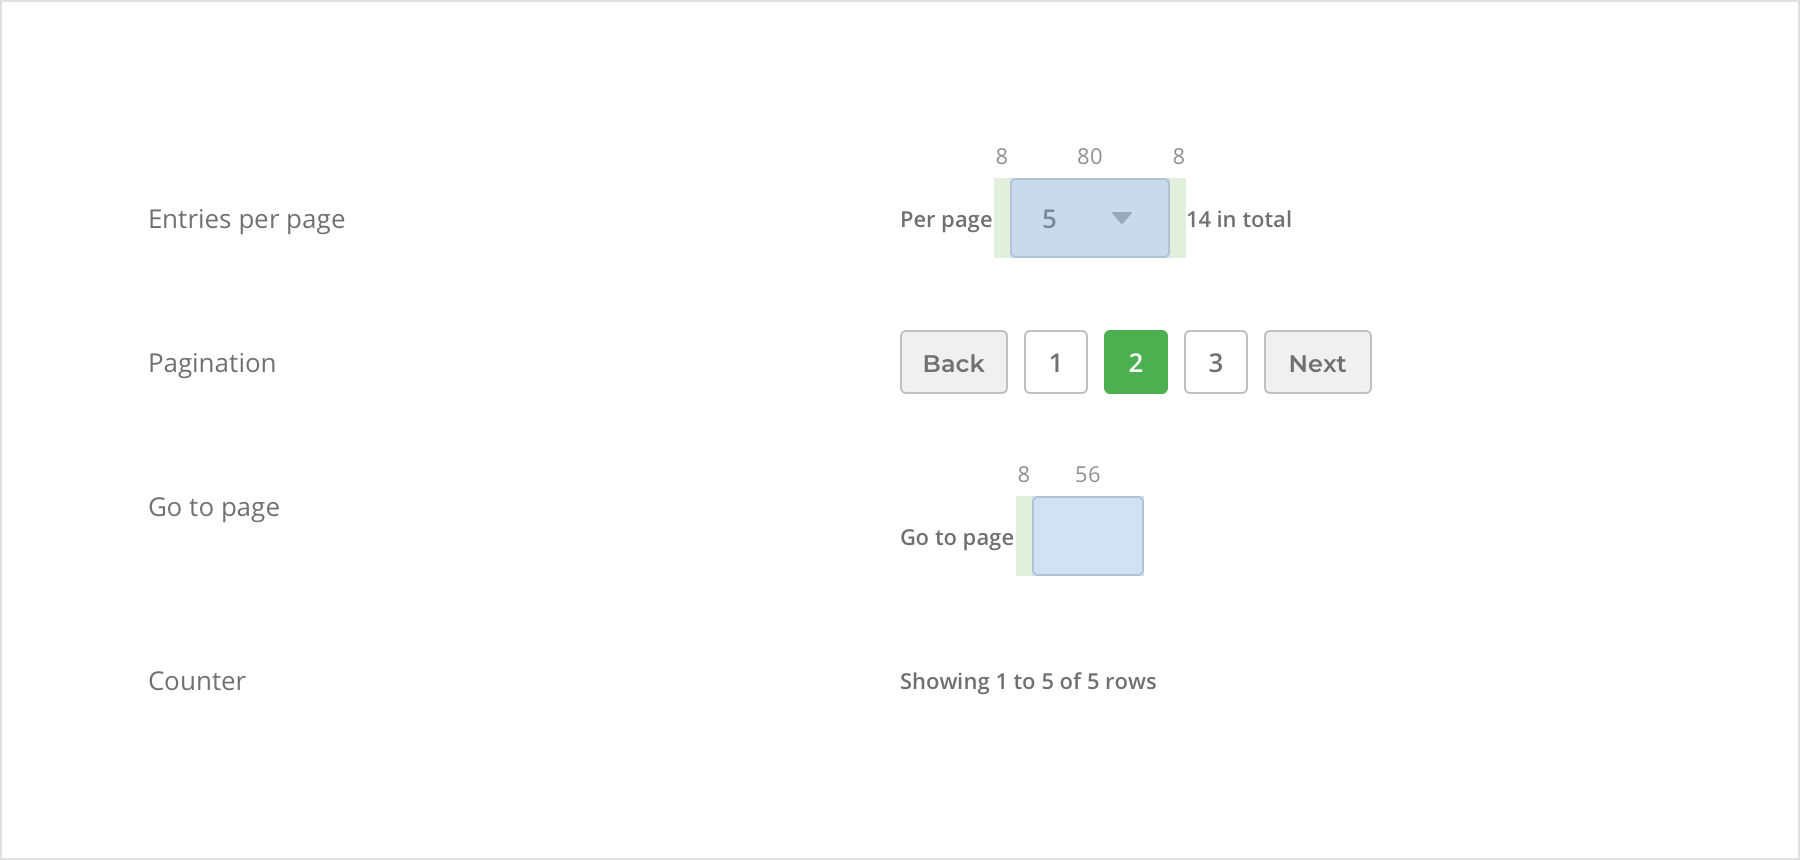
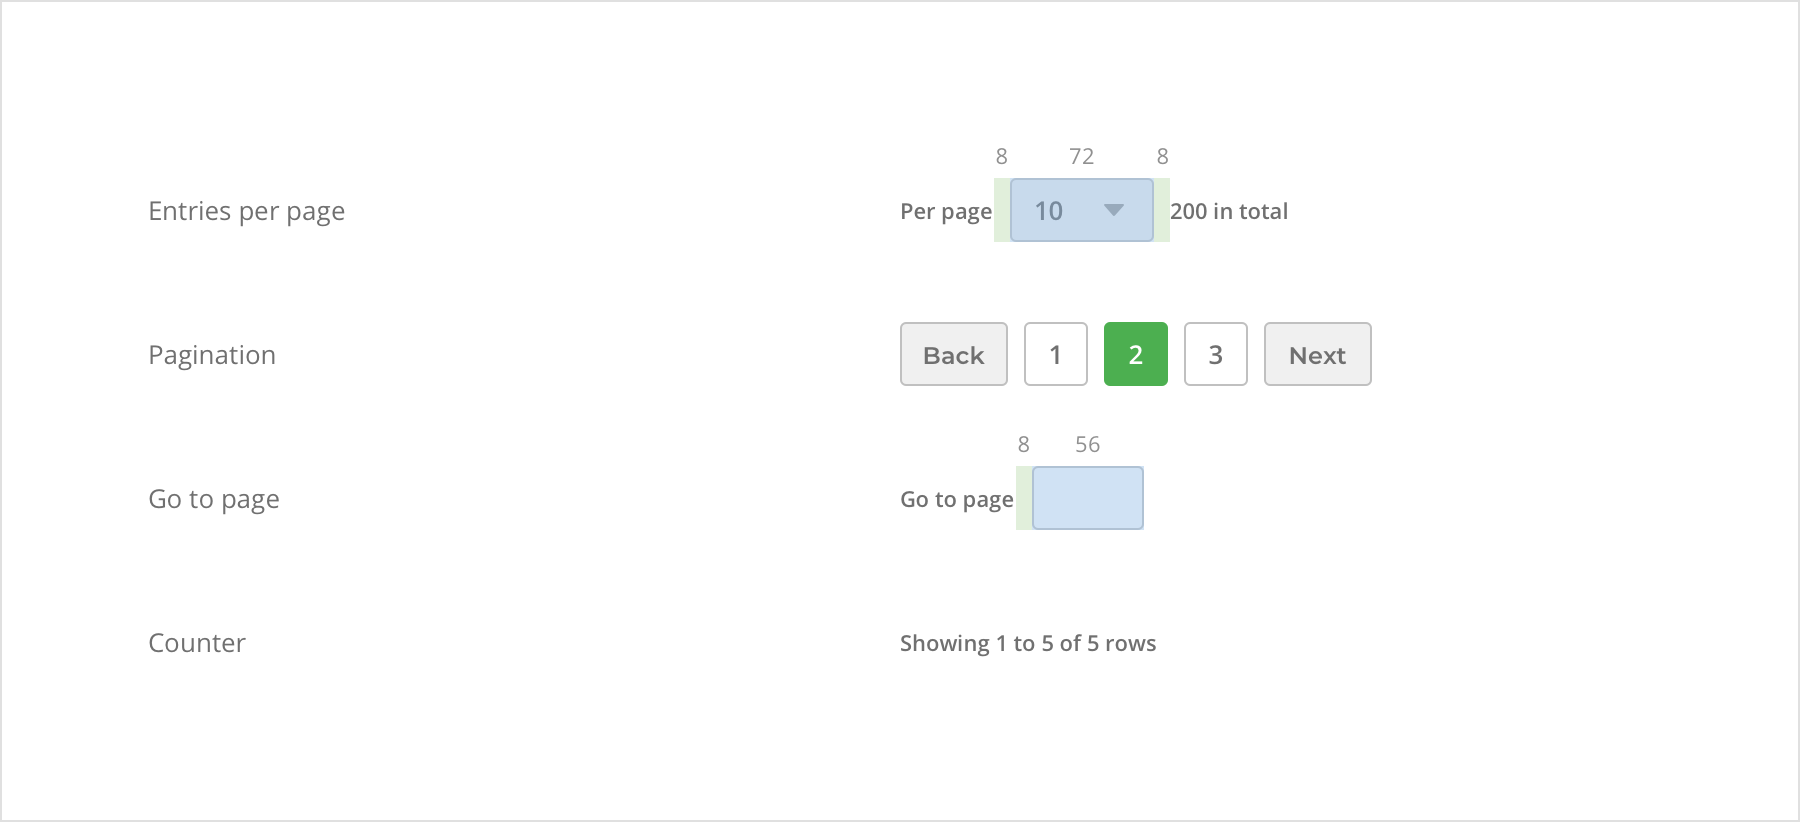
Updates organisms/data-tables.md
Auto commit by GitBook Editor

diff --git a/organisms/data-tables.md b/organisms/data-tables.md
@@ -178,7 +178,16 @@ font-weight: Semibold:
 color: $B200;
 
 /* Entries per page dropdown */
-width: 80px;
+width: 72px;
+height: 32px;
+background-color: $S200;
+padding: 0 12px;
+border: 1px solid $S500;
+border-radius: 3px;
+font-family: Open Sans;
+font-weight: Regular;
+font-size: 13px;
+color: $B100;
 
 /* Pagination */
 See 'Pagination' in Molecules section.
